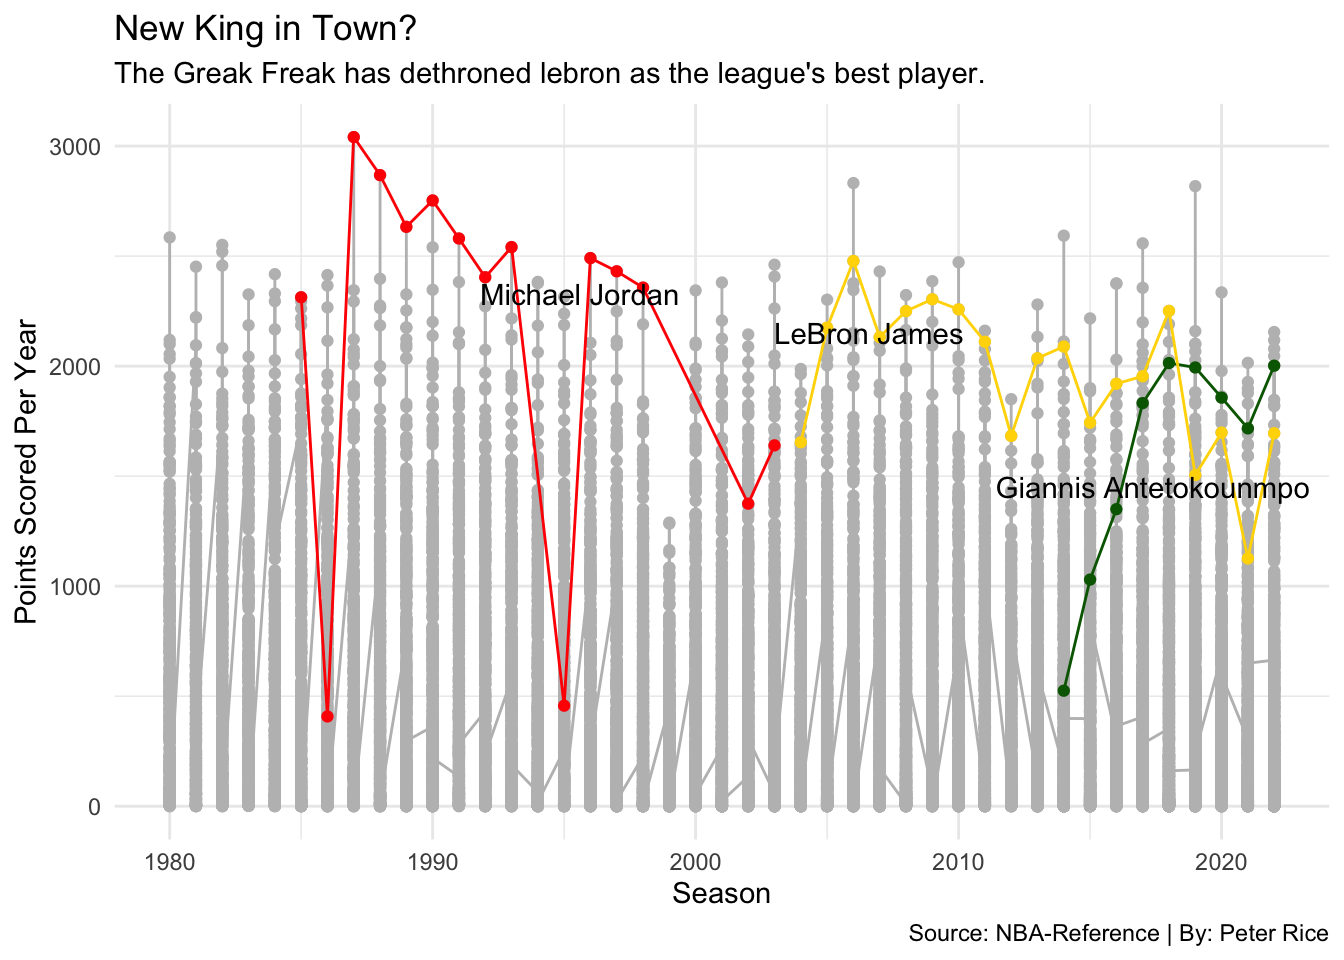
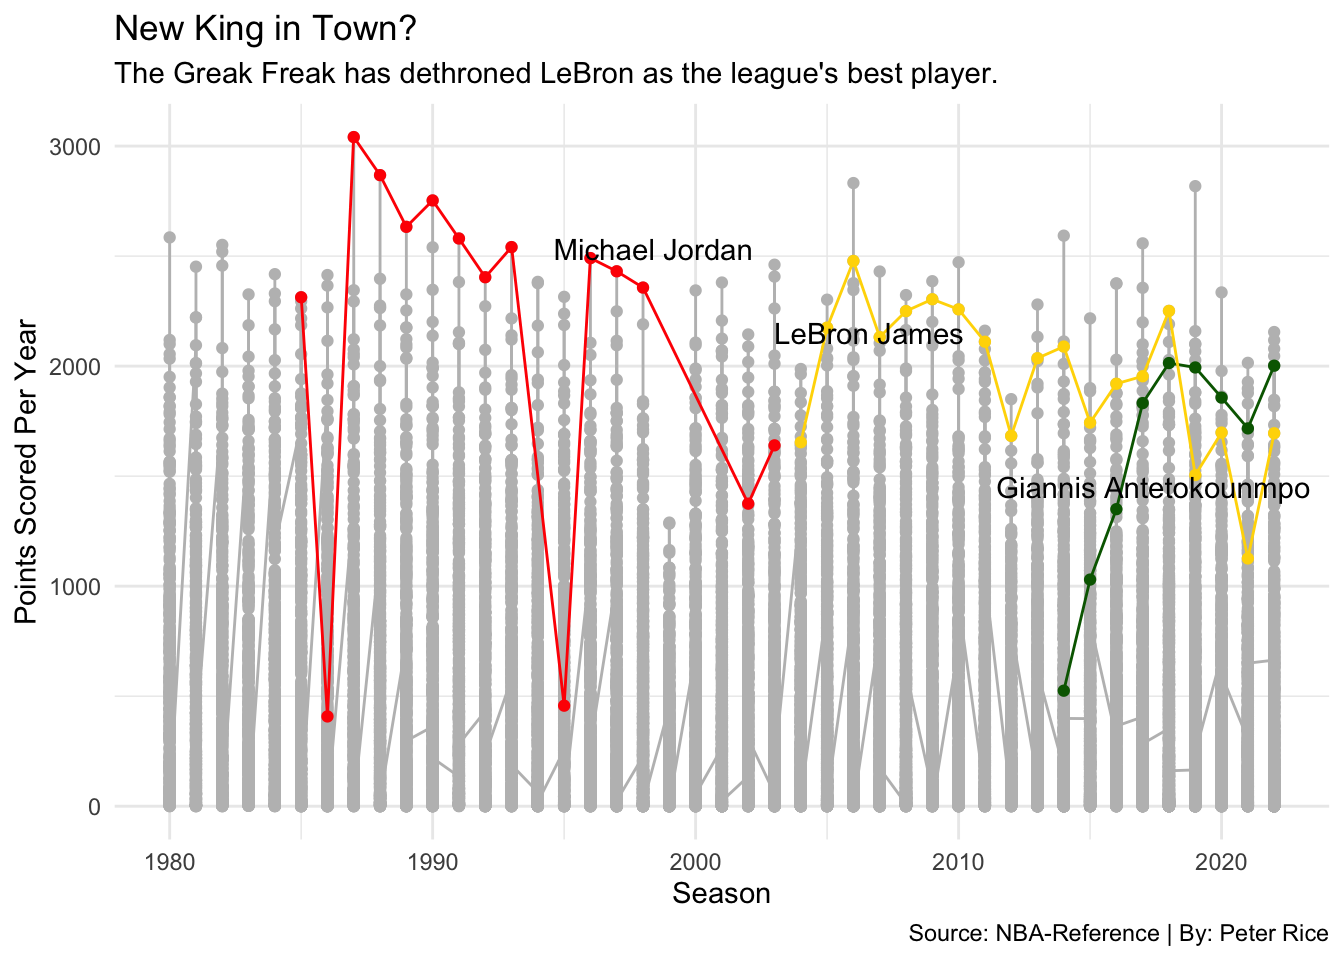
y

diff --git a/posts/giannis-could-be-the-goat/index.html b/posts/giannis-could-be-the-goat/index.html
@@ -257,7 +257,7 @@ code span.wa { color: #60a0b0; font-weight: bold; font-style: italic; } /* Warni
 <span id="cb1-44"><a href="#cb1-44" aria-hidden="true" tabindex="-1"></a>    <span class="at">x=</span><span class="st">"Season"</span>, </span>
 <span id="cb1-45"><a href="#cb1-45" aria-hidden="true" tabindex="-1"></a>    <span class="at">y=</span><span class="st">"Points Scored Per Year"</span>, </span>
 <span id="cb1-46"><a href="#cb1-46" aria-hidden="true" tabindex="-1"></a>    <span class="at">title=</span><span class="st">"New King in Town?"</span>, </span>
-<span id="cb1-47"><a href="#cb1-47" aria-hidden="true" tabindex="-1"></a>    <span class="at">subtitle=</span><span class="st">"The Greak Freak has dethroned lebron as the league's best player."</span>, </span>
+<span id="cb1-47"><a href="#cb1-47" aria-hidden="true" tabindex="-1"></a>    <span class="at">subtitle=</span><span class="st">"The Greak Freak has dethroned LeBron as the league's best player."</span>, </span>
 <span id="cb1-48"><a href="#cb1-48" aria-hidden="true" tabindex="-1"></a>    <span class="at">caption=</span><span class="st">"Source: NBA-Reference | By: Peter Rice"</span></span>
 <span id="cb1-49"><a href="#cb1-49" aria-hidden="true" tabindex="-1"></a>    )</span></code><button title="Copy to Clipboard" class="code-copy-button"><i class="bi"></i></button></pre></div>
 </details>
@@ -265,7 +265,7 @@ code span.wa { color: #60a0b0; font-weight: bold; font-style: italic; } /* Warni
 <p><img src="index_files/figure-html/unnamed-chunk-1-1.png" class="img-fluid" width="672"></p>
 </div>
 </div>
-<p>next step</p>
+<p>Barring injury, Giannis is on a trajectory to become one of the league’s best of all time. Winning is what matters most, so we need to see if his scoring and stats help his team win as much as other great players have.</p>
 <div class="cell">
 <details>
 <summary>Code</summary>

diff --git a/index.html b/index.html
@@ -164,7 +164,7 @@ ul.task-list li input[type="checkbox"] {
 
 <div class="quarto-listing quarto-listing-container-default" id="listing-listing">
 <div class="list quarto-listing-default">
-<div class="quarto-post image-right" data-index="0" data-categories="sports,data,basketball,nba" data-listing-date-sort="1669960800000" data-listing-file-modified-sort="1670217065772" data-listing-reading-time-sort="2.025">
+<div class="quarto-post image-right" data-index="0" data-categories="sports,data,basketball,nba" data-listing-date-sort="1669960800000" data-listing-file-modified-sort="1670217457092" data-listing-reading-time-sort="2.245">
 <div class="thumbnail">
 <p><a href="./posts/giannis-could-be-the-goat/index.html"> <img src="./posts/giannis-could-be-the-goat/image.png" class="thumnail-image"> </a></p>
 </div>
